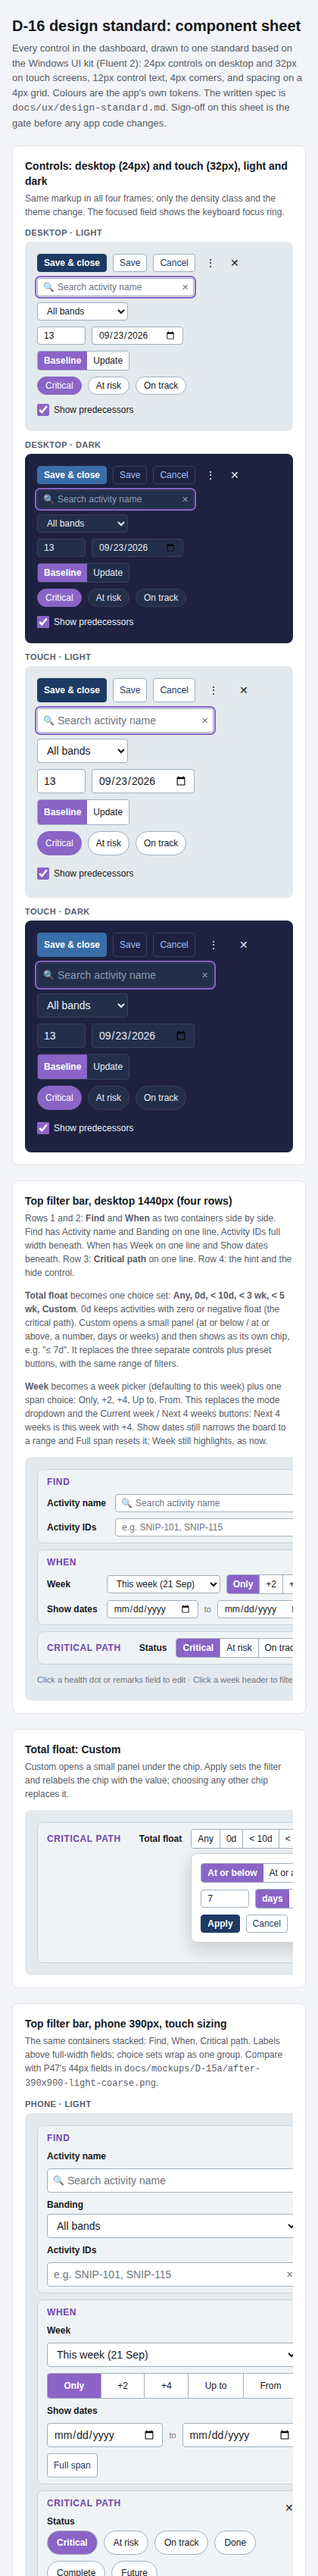
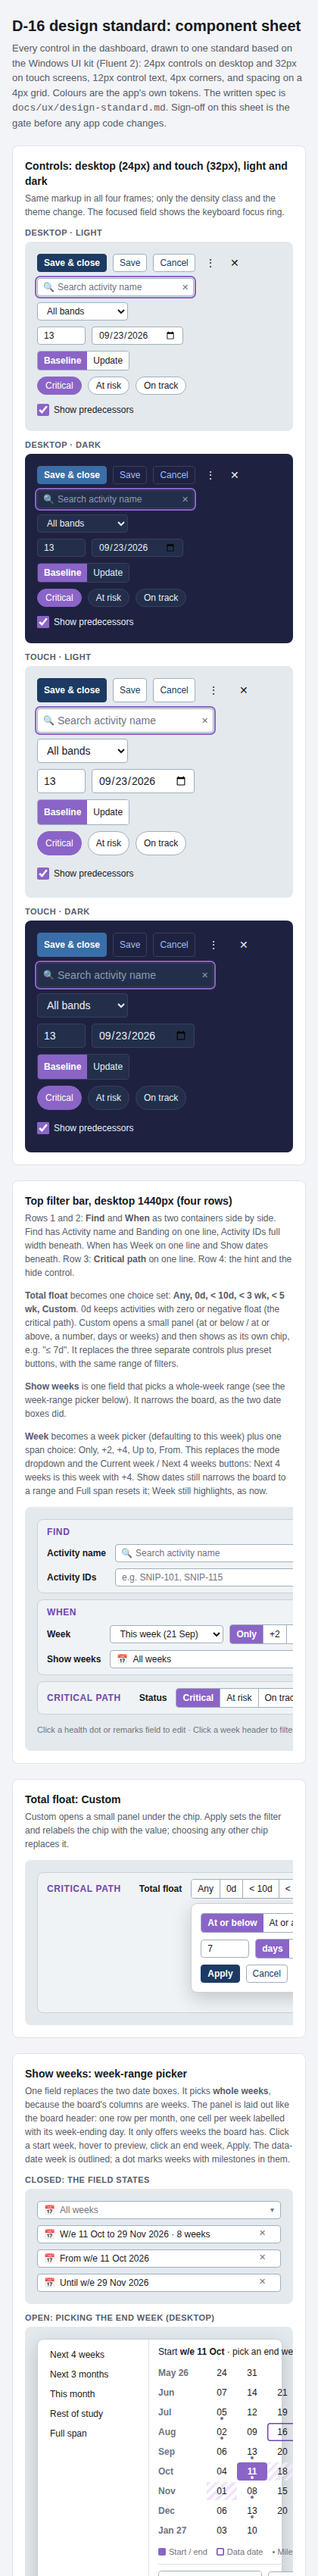
D-16a rev 4: Show weeks as one whole-week range picker
One field replaces the two date boxes. The panel mirrors the board
header: a row per month, a cell per week labelled with its week-ending
day, only the board's span offered, data-date week outlined, dots on
weeks with milestones. Quick ranges, From only / Until only for
one-sided ranges, Apply to commit. Field text reads e.g. 'W/e 11 Oct to
29 Nov 2026 · 8 weeks'. Desktop bar still four rows; 24px / 32px.

Claude-Session: https://claude.ai/code/session_01VvvMafGZ9E3v4dsCotnPSK

Changed region(s): [[0.0619, 0.53, 0.9286, 1.0]]

diff --git a/Projects/P6-Milestone-Dashboard/docs/mockups/D-16/component_sheet.html b/Projects/P6-Milestone-Dashboard/docs/mockups/D-16/component_sheet.html
@@ -99,6 +99,41 @@ body{background:var(--pg-bg);color:var(--pg-ink);font-family:'Segoe UI Variable 
 .phone .ds-seg.chips.pills button{flex:0 0 auto;border:1px solid var(--color-btn-secondary-outline);border-radius:999px;padding:0 12px}
 .phone .fb-box.crit .crit-clear{position:absolute;top:6px;right:8px}
 .fb-box.crit{position:relative}
+
+/* Week-range picker (D-16a rev 4) */
+.wr-field{box-sizing:border-box;height:var(--ctl-h);display:inline-flex;align-items:center;gap:6px;padding:0 var(--ctl-pad-x);border:1px solid var(--color-btn-secondary-outline);border-radius:var(--radius-ctl);background:var(--color-bg-elevated);color:var(--color-text-primary);font:inherit;font-size:var(--fs-field);cursor:pointer;text-align:left;min-width:220px}
+.wr-field .wr-txt{flex:1 1 auto;white-space:nowrap;overflow:hidden;text-overflow:ellipsis}
+.wr-field.empty .wr-txt{color:var(--color-text-muted)}
+.wr-field .wr-caret{color:var(--color-text-muted);font-size:10px}
+.wr-field .wr-clr{border:0;background:transparent;color:var(--color-text-muted);width:20px;height:20px;border-radius:var(--radius-ctl);cursor:pointer;font-size:11px}
+.wr-pop{border:1px solid var(--color-filter-border);border-radius:var(--radius-overlay);background:var(--color-bg-elevated);box-shadow:0 8px 24px rgba(0,0,0,.18);display:grid;grid-template-columns:auto 1fr;gap:0;width:max-content;max-width:100%;color:var(--color-text-primary)}
+.wr-quick{display:flex;flex-direction:column;gap:2px;padding:8px;border-right:1px solid var(--color-line-default);min-width:130px}
+.wr-quick button{height:var(--ctl-h);text-align:left;border:0;background:transparent;color:var(--color-text-primary);font:inherit;font-size:var(--fs-caption);padding:0 8px;border-radius:var(--radius-ctl);cursor:pointer}
+.wr-quick button:hover{background:var(--color-btn-icon-hover-bg)}
+.wr-quick button[aria-pressed="true"]{background:var(--color-accent-wash,rgba(139,100,199,.12));color:var(--color-accent-ink);font-weight:600}
+.wr-main{padding:8px 12px;display:flex;flex-direction:column;gap:8px}
+.wr-head{display:flex;justify-content:space-between;align-items:center;font-size:var(--fs-caption)}
+.wr-head b{font-weight:600}
+.wr-grid{display:grid;grid-template-columns:64px repeat(5,40px);gap:2px 0;align-items:center}
+.wr-mon{font-size:var(--fs-caption);font-weight:600;color:var(--color-text-muted);padding-right:8px}
+.wr-wk{position:relative;height:var(--ctl-h);display:flex;align-items:center;justify-content:center;font-size:var(--fs-caption);cursor:pointer;color:var(--color-text-primary)}
+.wr-wk:hover{background:var(--color-btn-icon-hover-bg);border-radius:var(--radius-ctl)}
+.wr-wk.in{background:var(--color-accent-tint-bg,#efe6f9)}
+.wr-wk.end{background:var(--color-accent-purple);color:#fff;font-weight:600;border-radius:var(--radius-ctl)}
+.wr-wk.preview{background:repeating-linear-gradient(135deg,var(--color-accent-tint-bg,#efe6f9) 0 4px,transparent 4px 8px)}
+.wr-wk.dd{box-shadow:inset 0 0 0 1.5px var(--color-accent-ink);border-radius:var(--radius-ctl)}
+.wr-wk .dot{position:absolute;bottom:2px;left:50%;transform:translateX(-50%);width:4px;height:4px;border-radius:50%;background:var(--color-text-muted)}
+.wr-wk.end .dot{background:#fff}
+.wr-wk.out{color:var(--color-text-muted);opacity:.35;cursor:default}
+.wr-foot button{white-space:nowrap}
+.wr-foot{display:flex;align-items:center;justify-content:space-between;gap:8px;border-top:1px solid var(--color-line-default);padding-top:8px;font-size:var(--fs-caption)}
+.wr-legend{display:flex;gap:12px;color:var(--color-text-muted);font-size:11px;align-items:center}
+.wr-legend i{display:inline-block;width:10px;height:10px;border-radius:2px;vertical-align:-1px;margin-right:4px}
+.wr-states{display:flex;flex-direction:column;gap:8px}
+.touch .wr-grid{grid-template-columns:56px repeat(5,minmax(0,1fr))}
+.touch .wr-pop{grid-template-columns:1fr;width:100%}
+.touch .wr-quick{flex-direction:row;flex-wrap:wrap;border-right:0;border-bottom:1px solid var(--color-line-default);min-width:0}
+.touch .wr-quick button{border:1px solid var(--color-btn-secondary-outline);border-radius:999px}
 </style>
 
 <div class="wrap">
@@ -122,6 +157,7 @@ body{background:var(--pg-bg);color:var(--pg-ink);font-family:'Segoe UI Variable 
   <h2>Top filter bar, desktop 1440px (four rows)</h2>
   <p>Rows 1 and 2: <b>Find</b> and <b>When</b> as two containers side by side. Find has Activity name and Banding on one line, Activity IDs full width beneath. When has Week on one line and Show dates beneath. Row 3: <b>Critical path</b> on one line. Row 4: the hint and the hide control.</p>
   <p><b>Total float</b> becomes one choice set: <b>Any, 0d, &lt; 10d, &lt; 3 wk, &lt; 5 wk, Custom</b>. 0d keeps activities with zero or negative float (the critical path). Custom opens a small panel (at or below / at or above, a number, days or weeks) and then shows as its own chip, e.g. "&#8804; 7d". It replaces the three separate controls plus preset buttons, with the same range of filters.</p>
+  <p><b>Show weeks</b> is one field that picks a whole-week range (see the week-range picker below). It narrows the board, as the two date boxes did.</p>
   <p><b>Week</b> becomes a week picker (defaulting to this week) plus one span choice: Only, +2, +4, Up to, From. This replaces the mode dropdown and the Current week / Next 4 weeks buttons: Next 4 weeks is this week with +4. Show dates still narrows the board to a range and Full span resets it; Week still highlights, as now.</p>
   <div class="pg-scroll"><div style="min-width:1100px"><div class="ds t-light fb" id="fb-desk"></div></div></div>
 </section>
@@ -130,6 +166,22 @@ body{background:var(--pg-bg);color:var(--pg-ink);font-family:'Segoe UI Variable 
   <h2>Total float: Custom</h2>
   <p>Custom opens a small panel under the chip. Apply sets the filter and relabels the chip with the value; choosing any other chip replaces it.</p>
   <div class="pg-scroll"><div style="min-width:760px"><div class="ds t-light fb" id="fb-custom"></div></div></div>
+</section>
+
+<section class="pg-sect">
+  <h2>Show weeks: week-range picker</h2>
+  <p>One field replaces the two date boxes. It picks <b>whole weeks</b>, because the board's columns are weeks. The panel is laid out like the board header: one row per month, one cell per week labelled with its week-ending day. It only offers weeks the board has. Click a start week, hover to preview, click an end week, Apply. The data-date week is outlined; a dot marks weeks with milestones in them.</p>
+  <div class="pg-grid">
+    <div><p class="pg-cap">Closed: the field states</p><div class="ds t-light"><div class="wr-states">
+      <button class="wr-field empty"><span class="wr-ico" aria-hidden="true">&#128197;</span><span class="wr-txt">All weeks</span><span class="wr-caret">&#9662;</span></button>
+      <button class="wr-field"><span class="wr-ico" aria-hidden="true">&#128197;</span><span class="wr-txt">W/e 11 Oct to 29 Nov 2026 &#183; 8 weeks</span><span class="wr-clr" aria-label="Clear">&#10005;</span></button>
+      <button class="wr-field"><span class="wr-ico" aria-hidden="true">&#128197;</span><span class="wr-txt">From w/e 11 Oct 2026</span><span class="wr-clr" aria-label="Clear">&#10005;</span></button>
+      <button class="wr-field"><span class="wr-ico" aria-hidden="true">&#128197;</span><span class="wr-txt">Until w/e 29 Nov 2026</span><span class="wr-clr" aria-label="Clear">&#10005;</span></button>
+    </div></div></div>
+    <div><p class="pg-cap">Open: picking the end week (desktop)</p><div class="pg-scroll"><div class="ds t-light"><div id="wr-desk"></div></div></div></div>
+    <div><p class="pg-cap">Open: dark</p><div class="pg-scroll"><div class="ds t-dark"><div id="wr-dark"></div></div></div></div>
+    <div><p class="pg-cap">Phone sheet (touch)</p><div class="pg-scroll"><div style="width:390px"><div class="ds touch t-light"><div id="wr-phone"></div></div></div></div></div>
+  </div>
 </section>
 
 <section class="pg-sect">
@@ -182,8 +234,8 @@ body{background:var(--pg-bg);color:var(--pg-ink);font-family:'Segoe UI Variable 
       <label>Week</label>
       <div class="fb-line"><select class="ds-select" style="min-width:150px"><option>This week (21 Sep)</option><option>All weeks</option></select>
         <span class="ds-seg chips" role="group" aria-label="Week span"><button aria-pressed="true">Only</button><button aria-pressed="false">+2</button><button aria-pressed="false">+4</button><button aria-pressed="false">Up to</button><button aria-pressed="false">From</button></span></div>
-      <label>Show dates</label>
-      <div class="fb-line dates"><input class="ds-field" type="date" aria-label="From"><span class="fb-note">to</span><input class="ds-field" type="date" aria-label="To"><button class="ds-btn">Full span</button></div>
+      <label>Show weeks</label>
+      <div class="fb-line"><button class="wr-field grow" aria-haspopup="dialog"><span class="wr-ico" aria-hidden="true">&#128197;</span><span class="wr-txt">All weeks</span><span class="wr-caret" aria-hidden="true">&#9662;</span></button></div>
     </div>
   </div>
   <div class="fb-box crit">
@@ -215,5 +267,36 @@ body{background:var(--pg-bg);color:var(--pg-ink);font-family:'Segoe UI Variable 
   ['ctl-desk-light','ctl-desk-dark','ctl-touch-light','ctl-touch-dark'].forEach(function(id){fill(id,'tpl-ctl');});
   ['fb-desk','fb-phone-light','fb-phone-dark'].forEach(function(id){fill(id,'tpl-fb');});
   fill('fb-custom','tpl-custom');
+  // Week-range picker mock: board weeks end on Sundays, 24 May 2026 to 10 Jan 2027.
+  function buildWR(host,opt){
+    var el=document.getElementById(host); if(!el) return;
+    var M=['Jan','Feb','Mar','Apr','May','Jun','Jul','Aug','Sep','Oct','Nov','Dec'];
+    var d=new Date(2026,4,24), end=new Date(2027,0,10), rows={}, order=[];
+    while(d<=end){var k=d.getFullYear()+'-'+d.getMonth(); if(!rows[k]){rows[k]=[];order.push(k);} rows[k].push(new Date(d)); d.setDate(d.getDate()+7);}
+    var s0=new Date(2026,9,11), s1=opt.end, dd=new Date(2026,7,16), busy={'2026-6-5':1,'2026-6-26':1,'2026-7-2':1,'2026-7-30':1,'2026-8-13':1,'2026-9-11':1,'2026-9-25':1,'2026-10-8':1,'2026-10-22':1,'2026-10-29':1,'2026-11-13':1};
+    var g='';
+    order.forEach(function(k){var ws=rows[k],m=ws[0].getMonth(),y=ws[0].getFullYear();
+      g+='<span class="wr-mon">'+M[m]+(m===0||k===order[0]?' '+String(y).slice(2):'')+'</span>';
+      for(var i=0;i<5;i++){var w=ws[i]; if(!w){g+='<span></span>';continue;}
+        var c='wr-wk', t=w.getTime();
+        if(t===s0.getTime()||(opt.done&&t===s1.getTime())) c+=' end';
+        else if(t>s0.getTime()&&t<s1.getTime()) c+=opt.done?' in':' preview';
+        else if(!opt.done&&t===s1.getTime()) c+=' preview';
+        if(t===dd.getTime()) c+=' dd';
+        var key=w.getFullYear()+'-'+w.getMonth()+'-'+w.getDate();
+        g+='<span class="'+c+'" role="button" aria-label="Week ending '+w.getDate()+' '+M[w.getMonth()]+'">'+('0'+w.getDate()).slice(-2)+(busy[key]?'<i class="dot"></i>':'')+'</span>';}
+    });
+    var q=['Next 4 weeks','Next 3 months','This month','Rest of study','Full span'].map(function(x){return '<button aria-pressed="false">'+x+'</button>';}).join('');
+    el.innerHTML='<div class="wr-pop"><div class="wr-quick">'+q+'</div><div class="wr-main">'+
+      '<div class="wr-head"><span>'+(opt.done?'<b>11 Oct to 29 Nov 2026</b> &#183; 8 weeks':'Start <b>w/e 11 Oct</b> &#183; pick an end week')+'</span></div>'+
+      '<div class="wr-grid">'+g+'</div>'+
+      '<div class="wr-legend"><span><i style="background:var(--color-accent-purple)"></i>Start / end</span><span><i style="box-shadow:inset 0 0 0 1.5px var(--color-accent-ink)"></i>Data date</span><span>&#8226; Milestones due</span></div>'+
+      '<div class="wr-foot"><span class="ds-seg"><button aria-pressed="false" title="Show from the picked week onward">From only</button><button aria-pressed="false" title="Show up to the picked week">Until only</button></span><span style="display:flex;gap:8px"><button class="ds-btn">Clear</button><button class="ds-btn">Cancel</button><button class="ds-btn primary">Apply</button></span></div>'+
+      '</div></div>';
+  }
+  buildWR('wr-desk',{end:new Date(2026,10,1),done:false});
+  buildWR('wr-dark',{end:new Date(2026,10,29),done:true});
+  buildWR('wr-phone',{end:new Date(2026,10,29),done:true});
+
 })();
 </script>
